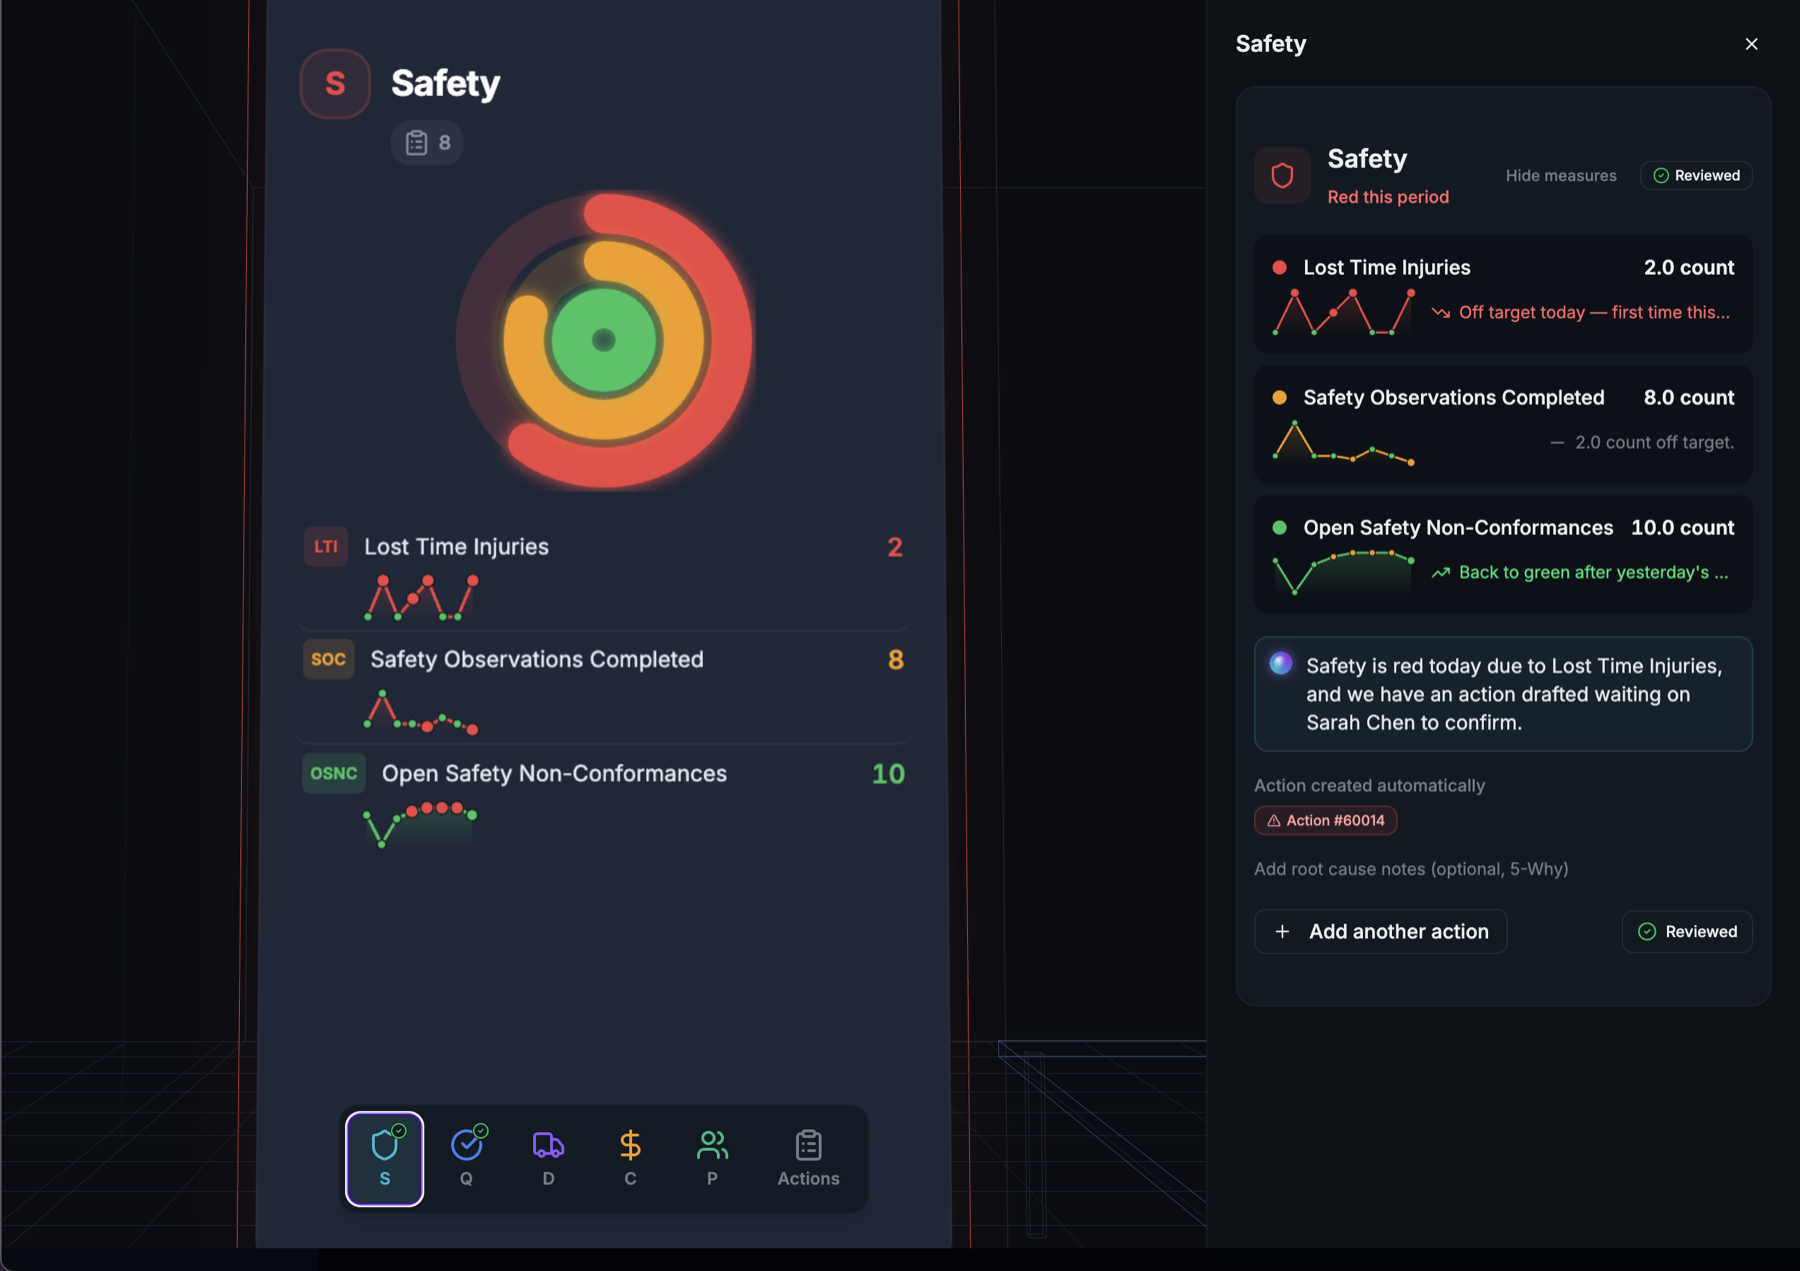
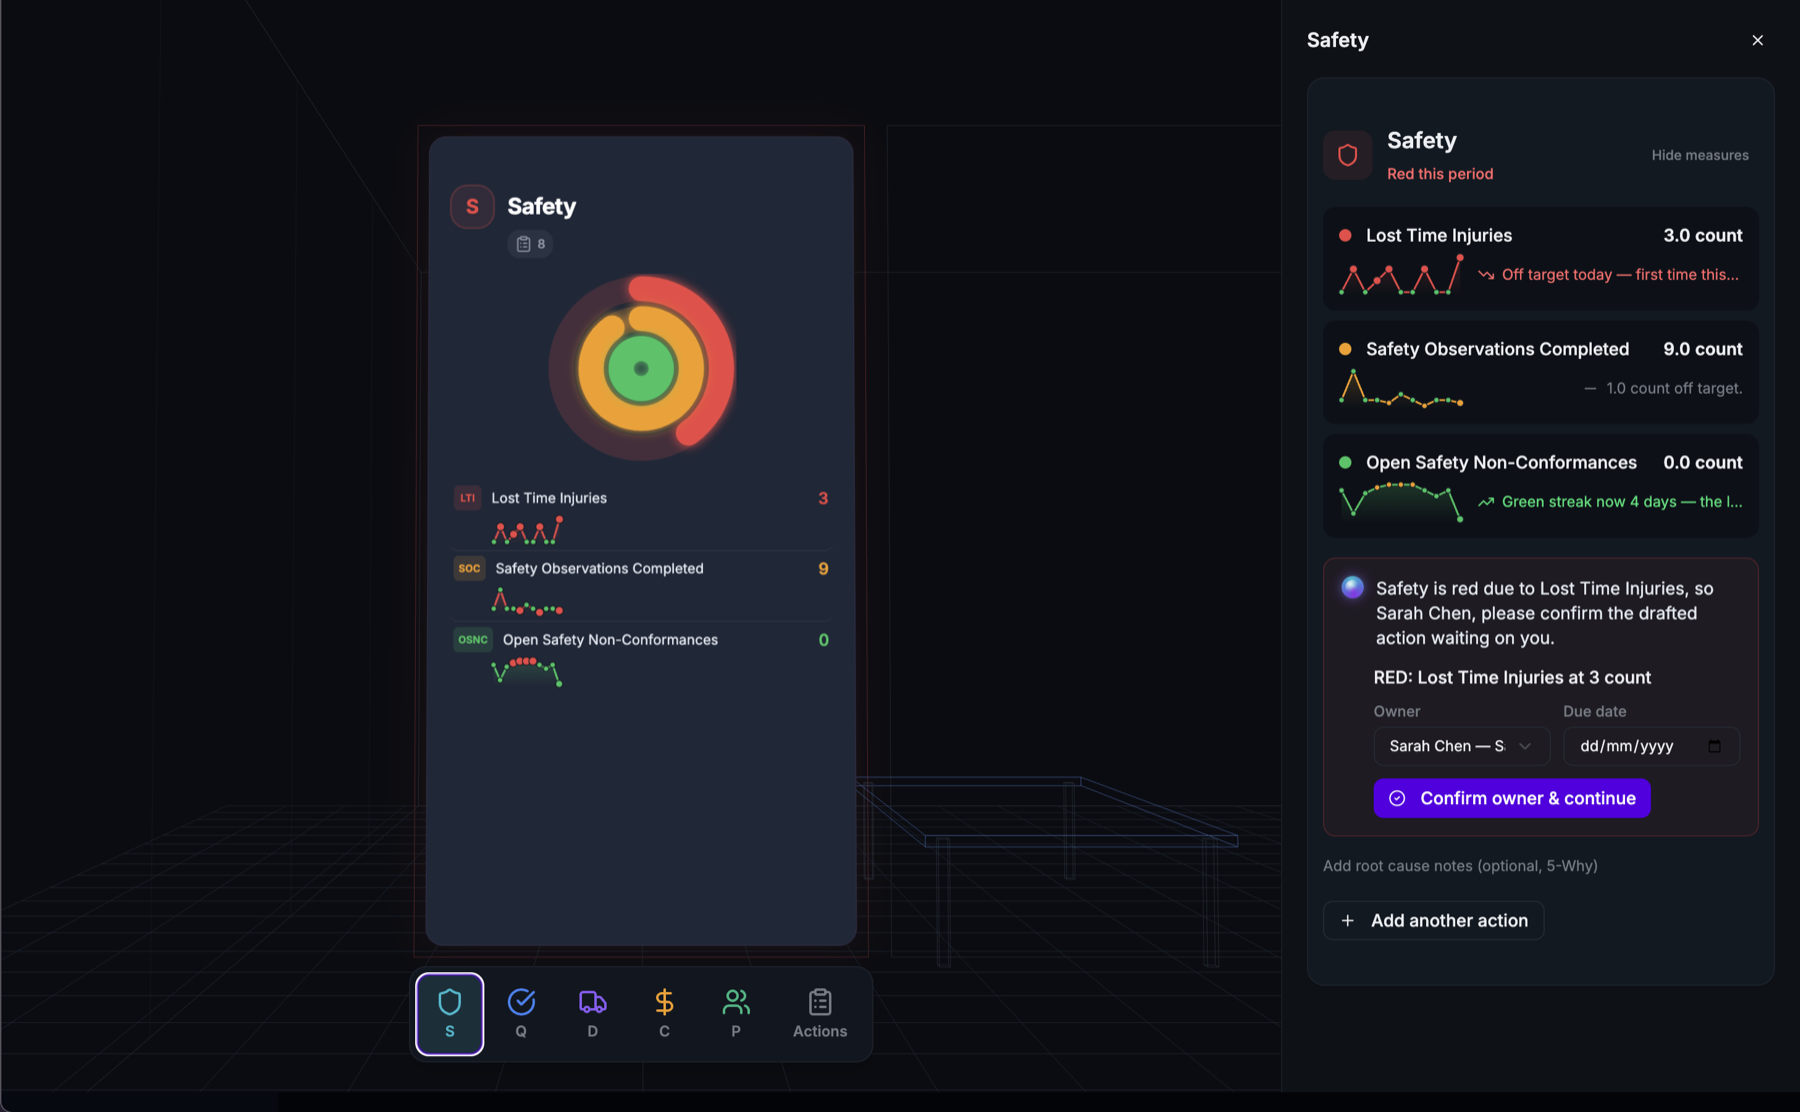
feat(ai): complete the Obeya walkthrough — seats, cleaner Opi line, close-out
All 8 walkthrough frames now real screens from Testa:
- 02-seats: lobby pillar-status & representatives row (Safety/People red,
  Actions 16 overdue), auto-assign + start huddle.
- 05-opi-line: replaced with a cleaner Safety-red frame — Opi line + the
  Confirm-owner control showing Sarah Chen.
- 08-closeout: the Opi meeting recap (win / issues / priorities) + the
  "escalated from team huddles" banner.
- Frame order now follows the real flow: pick a room -> the room -> check in ->
  board walk -> AI Facilitator -> actions -> CI deep-dive -> close-out.
- Frame container 1490/778 -> 16/10 + object-top so the app header/sidebar
  aren't cropped out.
- Two bonus shots renamed x-data-entry / x-admin-cascade (unused, off the
  numbered sequence).

SCREENSHOT-MANIFEST.md: walkthrough is complete; only optional AM/governance
shots remain.

diff --git a/client/src/components/demos/ObeyaWalkthrough.tsx b/client/src/components/demos/ObeyaWalkthrough.tsx
@@ -29,22 +29,22 @@ interface Frame {
 
 const FRAMES: Frame[] = [
   {
+    src: "/screenshots/obeya/03-rooms.png",
+    label: "Pick a room",
+    caption:
+      "One room per team, feeding the one above. The plant review is fed by the area huddles below it.",
+  },
+  {
     src: "/screenshots/obeya/01-room.png",
     label: "The room",
     caption:
       "Walk into the Obeya Room — a 3D war room with every SQDCP pillar on the wall, live. A readiness check confirms every pillar has data before the huddle can start.",
   },
   {
-    src: "/screenshots/obeya/03-rooms.png",
-    label: "Tier on tier",
-    caption:
-      "One room per team, feeding the one above. The plant review is fed by the area huddles below it.",
-  },
-  {
     src: "/screenshots/obeya/02-seats.png",
     label: "Check in",
     caption:
-      "Assign a representative to each pillar for today's huddle, then check in — a quick ceremony, not an identity check.",
+      "Live RAG per pillar, and who's representing it today — Safety and People are red, Actions has 16 overdue. Assign a rep to each, then start the huddle.",
   },
   {
     src: "/screenshots/obeya/04-board-walk.png",
@@ -189,8 +189,8 @@ export default function ObeyaWalkthrough() {
         />
       </div>
 
-      {/* Frame */}
-      <div className="relative bg-[#080C16] aspect-[1490/778]">
+      {/* Frame — matches the source screenshots' ~16:10 ratio so nothing is cropped */}
+      <div className="relative bg-[#080C16] aspect-[16/10]">
         {missing[frame.src] ? (
           <div
             className="absolute inset-0 flex flex-col items-center justify-center gap-3 p-6 text-center"
@@ -214,7 +214,7 @@ export default function ObeyaWalkthrough() {
           <img
             src={frame.src}
             alt={frame.caption}
-            className="w-full h-full object-cover"
+            className="w-full h-full object-cover object-top"
             loading="lazy"
             onError={() => setMissing(m => ({ ...m, [frame.src]: true }))}
           />

diff --git a/client/src/pages/Obeya.tsx b/client/src/pages/Obeya.tsx
@@ -132,7 +132,7 @@ export default function Obeya() {
           </AnimateOnScroll>
           <Suspense
             fallback={
-              <div className="aspect-[1490/778] rounded-lg border border-[#1E2738] bg-[#0D1220] flex items-center justify-center">
+              <div className="aspect-[16/10] rounded-lg border border-[#1E2738] bg-[#0D1220] flex items-center justify-center">
                 <span className="text-xs text-[#596475] animate-pulse">
                   Loading walkthrough…
                 </span>

diff --git a/SCREENSHOT-MANIFEST.md b/SCREENSHOT-MANIFEST.md
@@ -1,43 +1,30 @@
 # Screenshot manifest — AI + Obeya splash
 
-Capture from the **live Testa environment** logged in as a Testa user
-(`sqdcp.oplyticsdigital.net`, `policy.oplyticsdigital.net`). Testa site 60003 has
-the seeded rolling 7-day huddle window; the room is "SQDCP Tier 1 Huddle" (id 1).
+All shots from the **live Testa environment** (`sqdcp.oplyticsdigital.net`,
+`policy.oplyticsdigital.net`), Testa site 60003, room "SQDCP Tier 1 Huddle" (id 1).
 
-**Rules**
+## Status — complete for the walkthrough
 
-- No real customer names in frame. Testa / Testa Midlands Plant is fine.
-- No browser chrome — full-window app only.
-- Don't caption or frame the fingerprint check-in as a security feature — it's a
-  ceremony, not identity verification.
-- Dark theme. Wide viewport (≥ 1600px). PNG.
+| File                        | Shows                                                                                             |
+| --------------------------- | ------------------------------------------------------------------------------------------------- |
+| `obeya/01-room.png`         | 3D Obeya wall + lobby readiness bar                                                               |
+| `obeya/02-seats.png`        | Lobby — pillar status & representatives row, Auto-assign seats, Start huddle + AI-assisted toggle |
+| `obeya/03-rooms.png`        | AI Facilitator room list — plant review + 2 area huddles feeding in                               |
+| `obeya/04-board-walk.png`   | Pillar in focus + PDCA panel                                                                      |
+| `obeya/05-opi-line.png`     | Safety pillar red + Opi facilitator line + Confirm-owner (Sarah Chen)                             |
+| `obeya/06-actions.png`      | Actions step + Opi accountability brief + overdue list                                            |
+| `obeya/07-ci.png`           | CI Activities + Opi deep-dive intro                                                               |
+| `obeya/08-closeout.png`     | Close-out — Opi meeting recap (win / issues / priorities) + escalation banner                     |
+| `ai/opi-insights-pd.png`    | Opi Insights sidebar on Policy Deployment — score dial + findings                                 |
+| `obeya/x-data-entry.png`    | (bonus, unused) Data Entry — metric values with green/amber/red bands                             |
+| `obeya/x-admin-cascade.png` | (bonus, unused) Admin → Metrics & KPIs, "Cascaded from Enterprise PD"                             |
 
----
+## Optional additions (not blocking merge)
 
-## Status
-
-**Landed (2026-09-07):**
-
-| File                         | Shows                                                                           |
-| ---------------------------- | ------------------------------------------------------------------------------- |
-| `obeya/01-room.png`          | 3D Obeya wall + lobby readiness bar                                             |
-| `obeya/03-rooms.png`         | AI Facilitator room list — plant review + 2 area huddles feeding in             |
-| `obeya/04-board-walk.png`    | People pillar in focus + PDCA panel                                             |
-| `obeya/05-opi-line.png`      | Safety pillar red + Opi facilitator line + auto-drafted action                  |
-| `obeya/06-actions.png`       | Actions step + Opi accountability brief + overdue list                          |
-| `obeya/07-ci.png`            | CI Activities + Opi deep-dive intro                                             |
-| `obeya/08-data-entry.png`    | Data Entry — metric values with green/amber/red bands (not yet wired to a page) |
-| `obeya/09-admin-cascade.png` | Admin → Metrics & KPIs, "Cascaded from Enterprise PD" (not yet wired)           |
-| `ai/opi-insights-pd.png`     | Opi Insights sidebar on Policy Deployment — score dial + findings               |
-
-**Still needed — pages show a labelled placeholder until these land:**
-
-| File                     | Screen                                                                                    | What it must show                                                                                                                                                         |
-| ------------------------ | ----------------------------------------------------------------------------------------- | ------------------------------------------------------------------------------------------------------------------------------------------------------------------------- |
-| `obeya/02-seats.png`     | `/rooms/1` lobby                                                                          | The **representatives / seat-assignment row** — pillar-to-rep connector lines, a couple of seats filled.                                                                  |
-| `obeya/08-closeout.png`  | huddle, Close Out stage                                                                   | The close-out recap — win of the day / issues / priorities.                                                                                                               |
-| `ai/opi-insights-am.png` | Action Manager, Opi panel expanded (real LLM version, **no** "rule-based coaching" badge) | The scored advisor output. Optional but strong — currently the /ai page only shows the PD Opi shot. If captured, wire it into `AiPlatform.tsx` as a second `ProductShot`. |
-
-Optional extras (nice to have, not blocking): `ai/ai-controls.png` (Portal → AI
-Controls kill switch) and `ai/ai-usage.png` (Business Hub AI Usage dashboard) for
-the governance section — blur any emails / real enterprise names.
+- `ai/opi-insights-am.png` — Action Manager Opi panel expanded (the "RULE-BASED
+  COACHING" badge is stale, it's real LLM now). Would let `/ai` show a second Opi
+  Insights `ProductShot` alongside the PD one.
+- `ai/ai-controls.png` — Portal → AI Controls kill switch, for the governance
+  section. Blur any emails.
+- `ai/ai-usage.png` — Business Hub AI Usage & Cost dashboard. Blur real enterprise
+  names.
